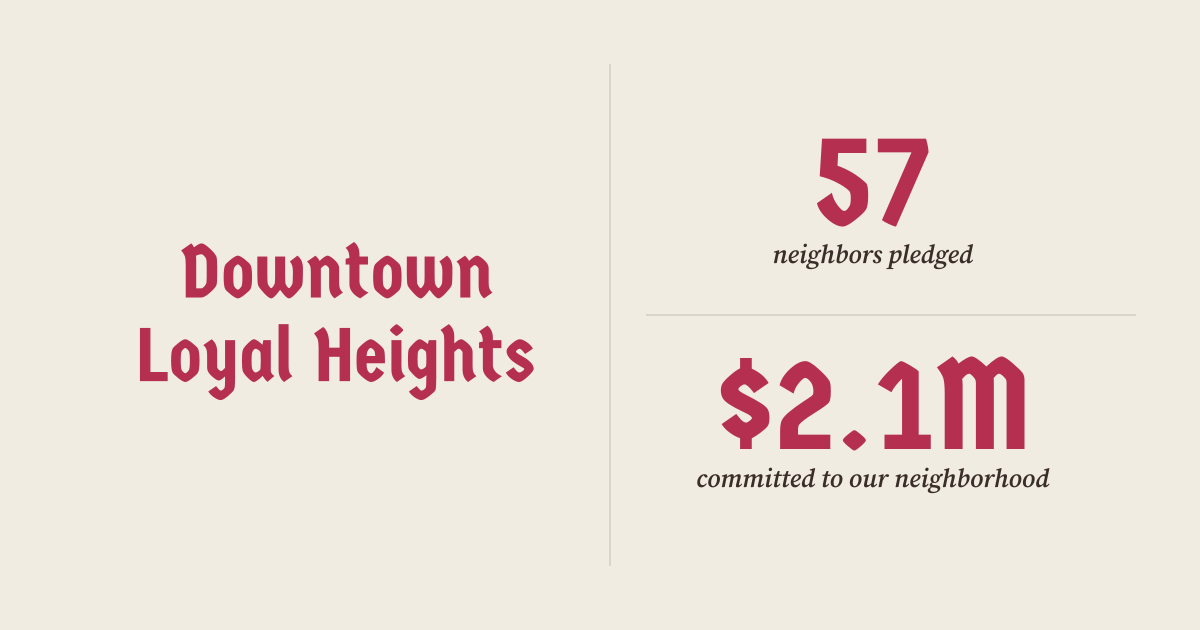
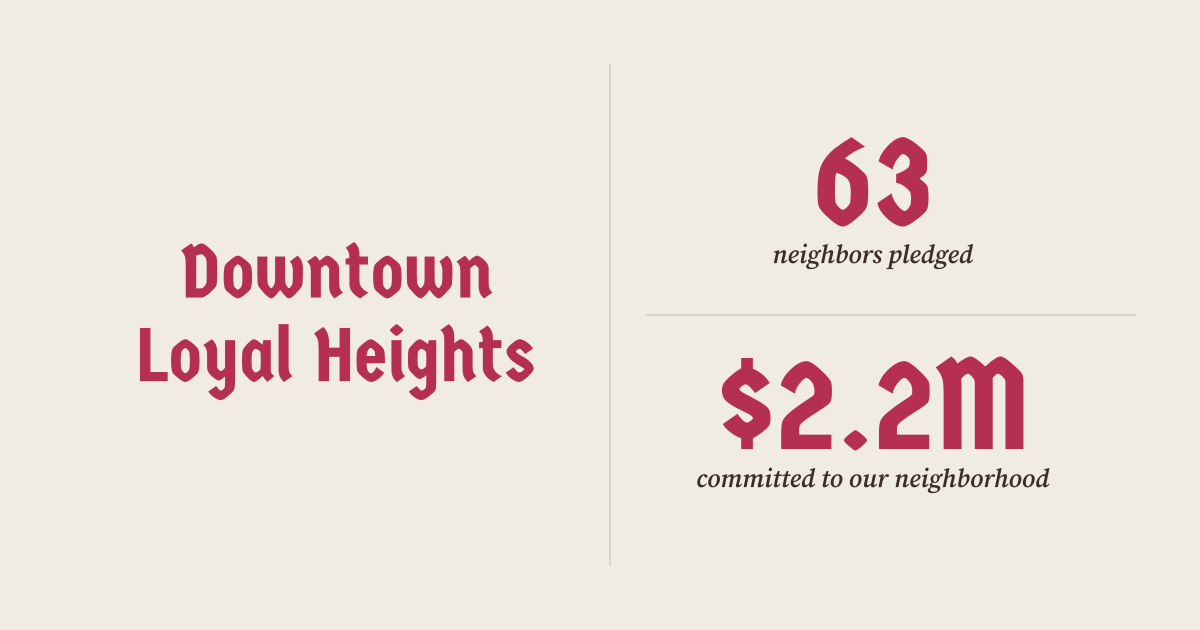
testing commit

diff --git a/layouts/shortcodes/milestone.html b/layouts/shortcodes/milestone.html
@@ -1,6 +1,6 @@
 {{- /*
-  Pulls a milestone_* value from the current page's frontmatter.
-  Usage: {{< milestone neighbors >}} → 27
-         {{< milestone pledged   >}} → $1.56M
+  Pulls a value from data/pledges_stats.json (generated from the CSV).
+  Usage: {{< milestone neighbors >}} → 57
+         {{< milestone pledged   >}} → $2.1M
 */ -}}
-{{- index .Page.Params (printf "milestone_%s" (.Get 0)) -}}
+{{- index site.Data.pledges_stats (.Get 0) -}}

diff --git a/gen_histogram_png.py b/gen_histogram_png.py
@@ -5,7 +5,8 @@ Run from the repo root:  python3 gen_histogram_png.py
 Output:  histogram-linkedin.png
 """
 
-import csv, base64, subprocess, sys, pathlib
+import base64, subprocess, sys, pathlib
+import compute_pledges
 
 # ── Fonts ────────────────────────────────────────────────────────────────────
 ROOT = pathlib.Path(__file__).parent
@@ -18,28 +19,9 @@ germania_b64   = b64font(FONT_DIR / "germania-one-regular.woff2")
 ss4_roman_b64  = b64font(FONT_DIR / "source-serif-4-variable-roman.woff2")
 
 # ── Parse CSV ─────────────────────────────────────────────────────────────────
-amounts = []
-with open(ROOT / "assets" / "data" / "pledges.csv") as f:
-    reader = csv.reader(f)
-    next(reader)  # skip header
-    for row in reader:
-        if not row:
-            continue
-        cell = row[0].strip().replace("$", "").replace(",", "").strip('"')
-        if cell:
-            try:
-                n = float(cell)
-                if n > 0:
-                    amounts.append(n)
-            except ValueError:
-                pass
-
-count = len(amounts)
-total = sum(amounts)
-mean  = total / count if count else 0
-sa    = sorted(amounts)
-mid   = count // 2
-median = (sa[mid-1] + sa[mid]) / 2 if count % 2 == 0 else sa[mid]
+amounts = compute_pledges.load()
+s       = compute_pledges.stats(amounts)
+count, total, mean, median = s["count"], s["total"], s["mean"], s["median"]
 
 # ── Bucket ────────────────────────────────────────────────────────────────────
 BUCKET_LABELS = ["&lt;$1K","$1K&#x2013;5K","$5K&#x2013;10K","$10K&#x2013;25K",
@@ -51,10 +33,7 @@ for a in amounts:
     buckets[idx] += 1
 max_count = max(buckets) if buckets else 1
 
-def fmt(v):
-    if v >= 1_000_000: return f"${v/1_000_000:.2f}M"
-    if v >= 1_000:     return f"${v/1_000:.0f}K"
-    return f"${v:.0f}"
+fmt = compute_pledges.fmt
 
 # ── Layout ────────────────────────────────────────────────────────────────────
 W, H     = 1200, 720

diff --git a/gen_og_card.py b/gen_og_card.py
@@ -17,18 +17,12 @@ germania_b64  = b64font(FONT_DIR / "germania-one-regular.woff2")
 ss4_roman_b64 = b64font(FONT_DIR / "source-serif-4-variable-roman.woff2")
 ss4_italic_b64 = b64font(FONT_DIR / "source-serif-4-variable-italic.woff2")
 
-# ── Read milestone values from Hugo frontmatter ───────────────────────────────
-import re
+# ── Read milestone values from pledges CSV ────────────────────────────────────
+import compute_pledges
 
-frontmatter_text = (ROOT / "content" / "_index.md").read_text(encoding="utf-8")
-neighbors_match  = re.search(r"^milestone_neighbors:\s*(\d+)", frontmatter_text, re.MULTILINE)
-pledged_match    = re.search(r'^milestone_pledged:\s*"([^"]+)"', frontmatter_text, re.MULTILINE)
-
-if not neighbors_match or not pledged_match:
-    sys.exit("Could not parse milestone values from content/_index.md frontmatter")
-
-count_str = neighbors_match.group(1)
-total_str = pledged_match.group(1)
+s = compute_pledges.stats(compute_pledges.load())
+count_str = str(s["count"])
+total_str = compute_pledges.fmt(s["total"])
 
 # ── Layout constants ──────────────────────────────────────────────────────────
 W, H   = 1200, 630

diff --git a/content/_index.md b/content/_index.md
@@ -1,7 +1,5 @@
 ---
 title: "A concept for community-owned redevelopment in Loyal Heights"
-milestone_neighbors: 57
-milestone_pledged: "$2.1M"
 milestone_tagline: "Amazing neighbors make neighborhoods amazinger."
 ---
 